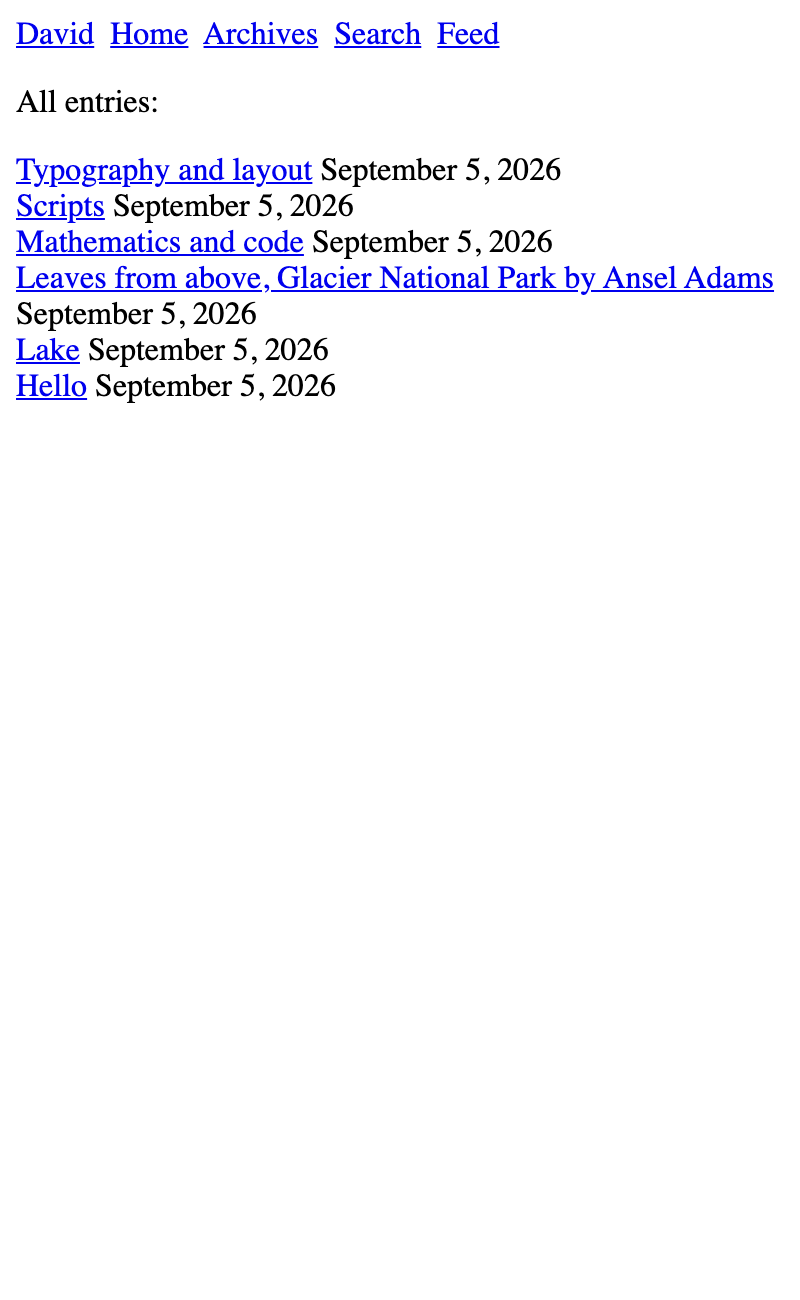
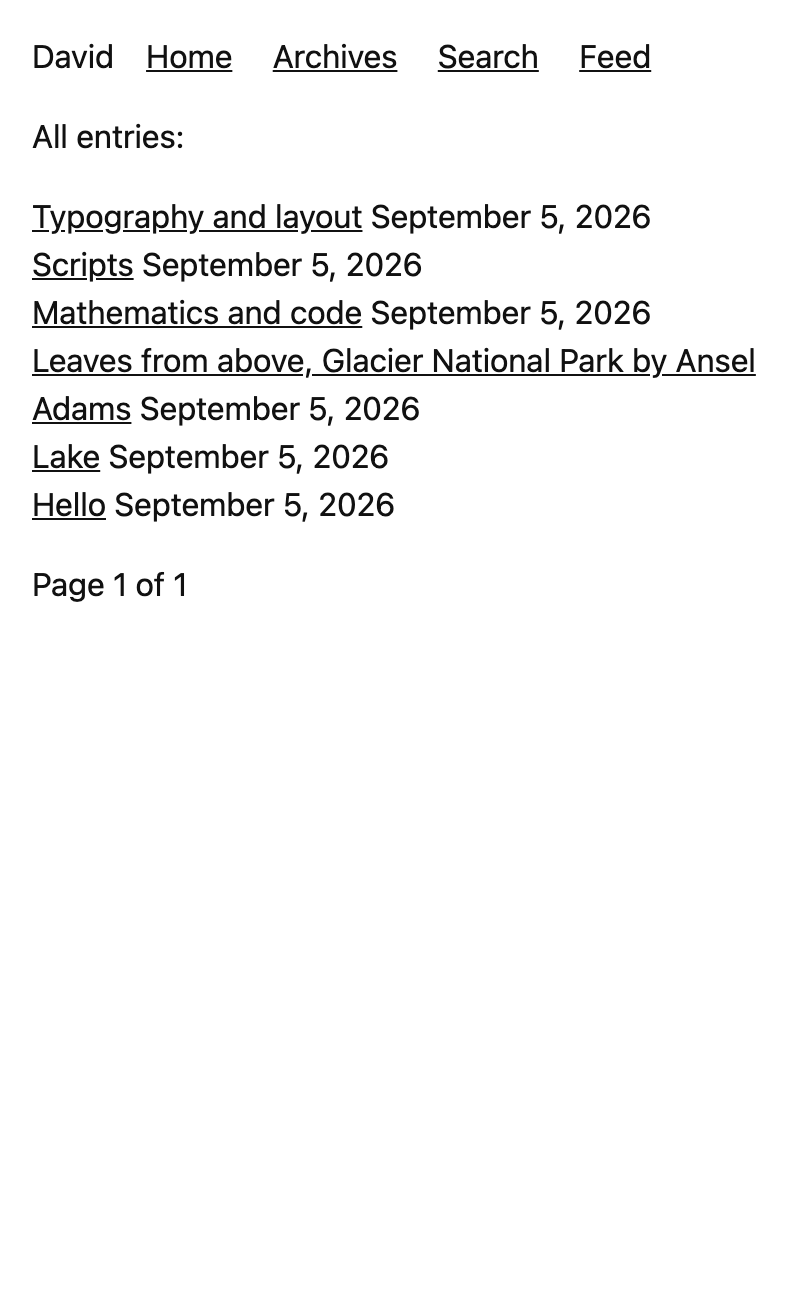
Expose Wireframe template settings as dashboard controls (#1666)
* Expose Wireframe template settings as dashboard controls

Add color, font, upload, navigation, syntax-highlighter, and layout
locals so the dashboard editor can configure the skeleton theme, and
wire each local through the template views and CSS.

* Updates screenshots of templates

* Fix Wireframe template dashboard controls

---------

Changed region(s): [[0.0, 0.0, 0.9688, 0.4], [0.0312, 0.4308, 0.25, 0.4615], [0.7188, 0.0308, 0.8125, 0.0615]]

diff --git a/app/templates/source/wireframe/style.css b/app/templates/source/wireframe/style.css
@@ -1,4 +1,105 @@
 {{{app_css}}}
+{{{body_font.styles}}}
+{{{heading_font.styles}}}
+{{{syntax_highlighter_font.styles}}}
+{{{syntax_highlighter.styles}}}
+
+body {
+  {{#body_font}}
+  font-family: {{{stack}}};
+  font-size: {{{font_size}}}px;
+  line-height: {{{line_height}}};
+  {{/body_font}}
+  color: {{text_color}};
+  background: {{background_color}};
+  margin: 0;
+  padding: {{spacing}}em;
+}
+
+.container {
+  max-width: {{max_width}}px;
+}
+
+a {
+  color: {{link_color}};
+}
+
+h1, h2, h3, h4, h5, h6 {
+  {{#heading_font}}
+  font-family: {{{stack}}};
+  line-height: {{{line_height}}};
+  {{/heading_font}}
+}
+
+h1 {
+  {{#heading_font}}
+  font-size: {{{font_size}}}px;
+  line-height: {{{line_height}}};
+  {{/heading_font}}
+}
+
+h2 { font-size: calc({{{heading_font.font_size}}}px * 0.83); }
+h3 { font-size: calc({{{heading_font.font_size}}}px * 0.67); }
+h4 { font-size: calc({{{heading_font.font_size}}}px * 0.56); }
+h5 { font-size: calc({{{heading_font.font_size}}}px * 0.46); }
+h6 { font-size: calc({{{heading_font.font_size}}}px * 0.38); }
+
+.site-header {
+  display: flex;
+  align-items: baseline;
+  flex-wrap: wrap;
+  gap: 0.5em 1em;
+  max-width: {{max_width}}px;
+  margin-bottom: {{spacing}}em;
+}
+
+{{#is.navigation_alignment.justified}}
+.site-header {justify-content: space-between;}
+{{/is.navigation_alignment.justified}}
+{{#is.navigation_alignment.left}}
+.site-header {justify-content: flex-start;}
+{{/is.navigation_alignment.left}}
+{{#is.navigation_alignment.right}}
+.site-header {justify-content: flex-end;}
+{{/is.navigation_alignment.right}}
+{{#is.navigation_alignment.center}}
+.site-header {justify-content: center;}
+{{/is.navigation_alignment.center}}
+
+{{#sticky_navigation}}
+.site-header {
+  position: sticky;
+  top: 0;
+  z-index: 2;
+  background: {{background_color}};
+  margin: calc(-1 * {{spacing}}em) calc(-1 * {{spacing}}em) {{spacing}}em;
+  padding: {{spacing}}em;
+  max-width: none;
+}
+{{/sticky_navigation}}
+
+.site-title {
+  color: inherit;
+  text-decoration: none;
+}
+
+.site-logo {
+  max-height: 1.4em;
+  width: auto;
+  vertical-align: middle;
+}
+
+.site-nav a,
+.site-footer a {
+  margin-right: 1em;
+}
+
+.site-footer {
+  margin-top: {{spacing}}em;
+  padding-top: {{spacing}}em;
+  max-width: {{max_width}}px;
+  border-top: 1px solid rgba({{#rgb}}{{text_color}}{{/rgb}}, 0.2);
+}
 
 p,
 li,
@@ -6,4 +107,20 @@ blockquote,
 figcaption {
   orphans: 2;
   widows: 2;
+}
+
+pre {
+  overflow-x: auto;
+  padding: 0.7em 1em;
+}
+
+pre, code {
+  {{#syntax_highlighter_font}}
+  font-family: {{{stack}}};
+  font-size: {{{font_size}}}px;
+  {{/syntax_highlighter_font}}
+}
+
+.pagination {
+  margin: {{spacing}}em 0;
 }

diff --git a/app/templates/source/wireframe/entries.html b/app/templates/source/wireframe/entries.html
@@ -5,13 +5,29 @@
 
     {{> header}}
 
+    <div class="container">
     <p>All entries:</p>
 
     <p>
-    {{#all_entries}}
-    <a href="{{{url}}}">{{title}}</a> {{date}}<br>
-    {{/all_entries}}
+    {{#posts}}
+    <a href="{{{url}}}">{{title}}</a>{{#date}} {{date}}{{/date}}<br>
+    {{/posts}}
     </p>
+
+    {{#posts.length}}
+    {{#pagination}}
+    <div class="pagination">
+      {{#previous}}
+      <a href="/page/{{previous}}">&larr; Newer</a>
+      {{/previous}}
+      Page {{current}} of {{total}}
+      {{#next}}
+      <a href="/page/{{next}}">Older &rarr;</a>
+      {{/next}}
+    </div>
+    {{/pagination}}
+    {{/posts.length}}
+    </div>
 
     <br><br>
 

diff --git a/app/templates/source/wireframe/_head.html b/app/templates/source/wireframe/_head.html
@@ -12,7 +12,8 @@
   {{^entry}}<meta name="description" content="{{> description}}">{{/entry}}
 
   <link rel="alternate" type="application/rss+xml" title="RSS Feed for {{title}}" href="{{{siteURL}}}{{{feedURL}}}">
-  {{#avatar}}<link rel="icon" href="{{{avatar}}}" type="image/x-icon">{{/avatar}}
+  {{#favicon_url}}<link rel="icon" href="{{{favicon_url}}}" type="image/x-icon">{{/favicon_url}}
+  {{^favicon_url}}{{#avatar}}<link rel="icon" href="{{{avatar}}}" type="image/x-icon">{{/avatar}}{{/favicon_url}}
   <link rel="preconnect" href="{{{cdn}}}" />
   <link rel="stylesheet" href="{{#cdn}}/style.css{{/cdn}}">
 

diff --git a/app/templates/source/wireframe/_header.html b/app/templates/source/wireframe/_header.html
@@ -1,5 +1,8 @@
-<a href="/" title="The homepage of {{title}}">{{title}}</a>&nbsp;
-{{#menu}}
-<a href="{{{url}}}" title="{{label}}">{{label}}</a>&nbsp;
-{{/menu}}
-<br>
+<header class="site-header">
+  <a href="/" class="site-title" title="The homepage of {{title}}">{{#logo_url}}<img src="{{{logo_url}}}" alt="{{title}}" class="site-logo">{{/logo_url}}{{^logo_url}}{{title}}{{/logo_url}}</a>
+  <nav class="site-nav">
+    {{#menu}}
+    <a href="{{{url}}}" title="{{label}}">{{label}}</a>
+    {{/menu}}
+  </nav>
+</header>

diff --git a/app/templates/source/wireframe/search.html b/app/templates/source/wireframe/search.html
@@ -4,6 +4,7 @@
   <body>
     {{> header}}
 
+    <div class="container">
     <br>
     <form>
       <input placeholder="Search for an entry..." value="{{#query}}{{query}}{{/query}}" name="q" id="search" type="text" /><input type="submit" value="Go"/>
@@ -17,8 +18,9 @@
     {{/query}}
 
     {{#entries}}
-      <a href="{{{url}}}">{{title}}</a> {{date}}<br>
+      <a href="{{{url}}}">{{title}}</a>{{#date}} {{date}}{{/date}}<br>
     {{/entries}}
+    </div>
 
     {{> footer}}
   </body>

diff --git a/app/templates/source/wireframe/archives.html b/app/templates/source/wireframe/archives.html
@@ -3,6 +3,7 @@
   {{> head}}
   <body>
     {{> header}}
+    <div class="container">
     <h1>Archive</h1>
 
     {{#archives}}
@@ -12,12 +13,13 @@
 
         <p>
         {{#entries}}
-        <a href="{{{url}}}">{{title}}</a><br>
+        <a href="{{{url}}}">{{title}}</a>{{#date}} {{date}}{{/date}}<br>
         {{/entries}}
         </p>
 
       {{/months}}
     {{/archives}}
+    </div>
 
     {{> footer}}
   </body>

diff --git a/app/templates/source/wireframe/tagged.html b/app/templates/source/wireframe/tagged.html
@@ -4,10 +4,11 @@
   <body>
     {{> header}}
 
+    <div class="container">
     <h1>Posts tagged “{{tag}}”</h1>
 
     {{#entries}}
-    <a href="{{{url}}}">{{title}}</a> {{date}} <br>
+    <a href="{{{url}}}">{{title}}</a>{{#date}} {{date}}{{/date}} <br>
     {{/entries}}
 
     {{#pagination}}
@@ -21,6 +22,7 @@
       {{/next}}
     </div>
     {{/pagination}}
+    </div>
 
     {{> footer}}
   </body>

diff --git a/app/templates/source/wireframe/entry.html b/app/templates/source/wireframe/entry.html
@@ -17,12 +17,14 @@
           <p>Published on {{date}}.</p>
         {{/date}}
 
+        {{#show_tags}}
         {{#tags.length}}
           <p>Tagged:
           {{#tags}}
            <a href="/tagged/{{slug}}">{{name}}</a> &nbsp;
           {{/tags}}</p>
         {{/tags.length}}
+        {{/show_tags}}
 
         <br>
 

diff --git a/app/templates/source/wireframe/_footer.html b/app/templates/source/wireframe/_footer.html
@@ -1,1 +1,10 @@
+{{#footer_navigation}}
+<footer class="site-footer">
+  <nav>
+    {{#menu}}
+    <a href="{{{url}}}" title="{{label}}">{{label}}</a>
+    {{/menu}}
+  </nav>
+</footer>
+{{/footer_navigation}}
 <script src="{{#cdn}}/script.js{{/cdn}}" type="text/javascript"></script>

diff --git a/app/templates/source/wireframe/error.html b/app/templates/source/wireframe/error.html
@@ -3,8 +3,10 @@
   {{> head}}
   <body>
     {{> header}}
+    <div class="container">
     <h1>{{error.title}}</h1>
     <p>Something has gone wrong. {{error.message}}</p>
+    </div>
     {{> footer}}
   </body>
 </html>
